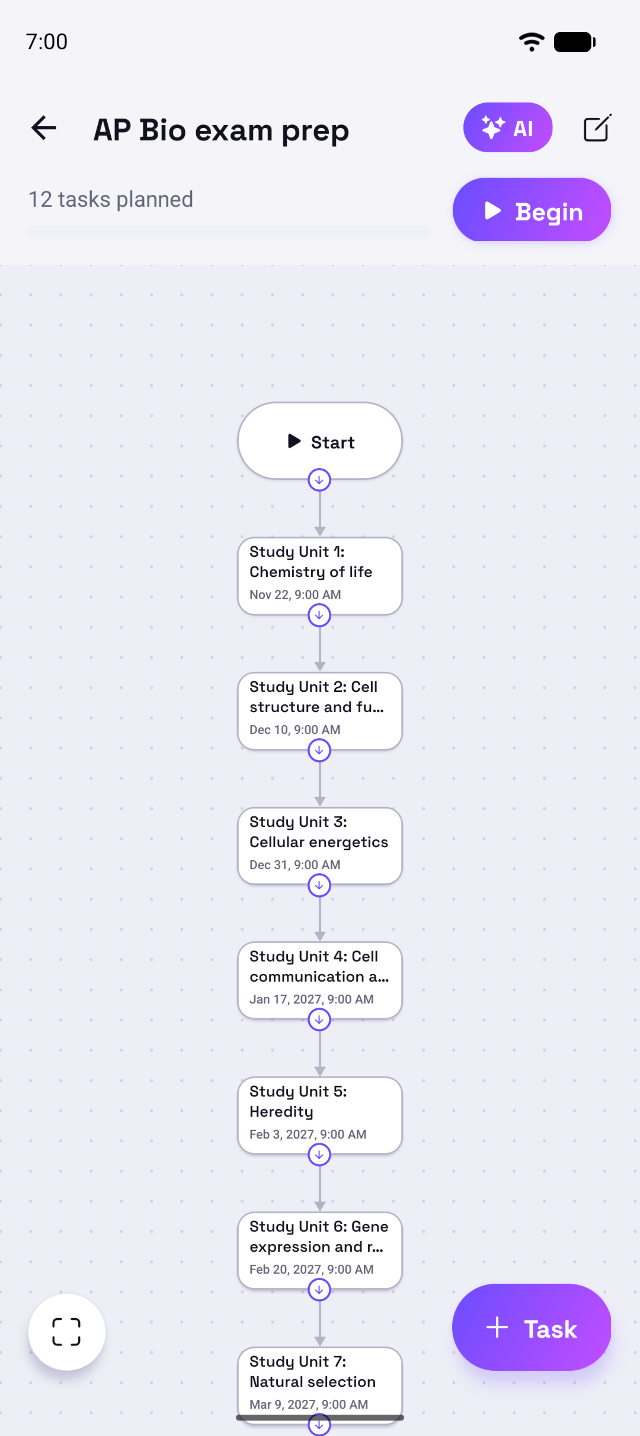
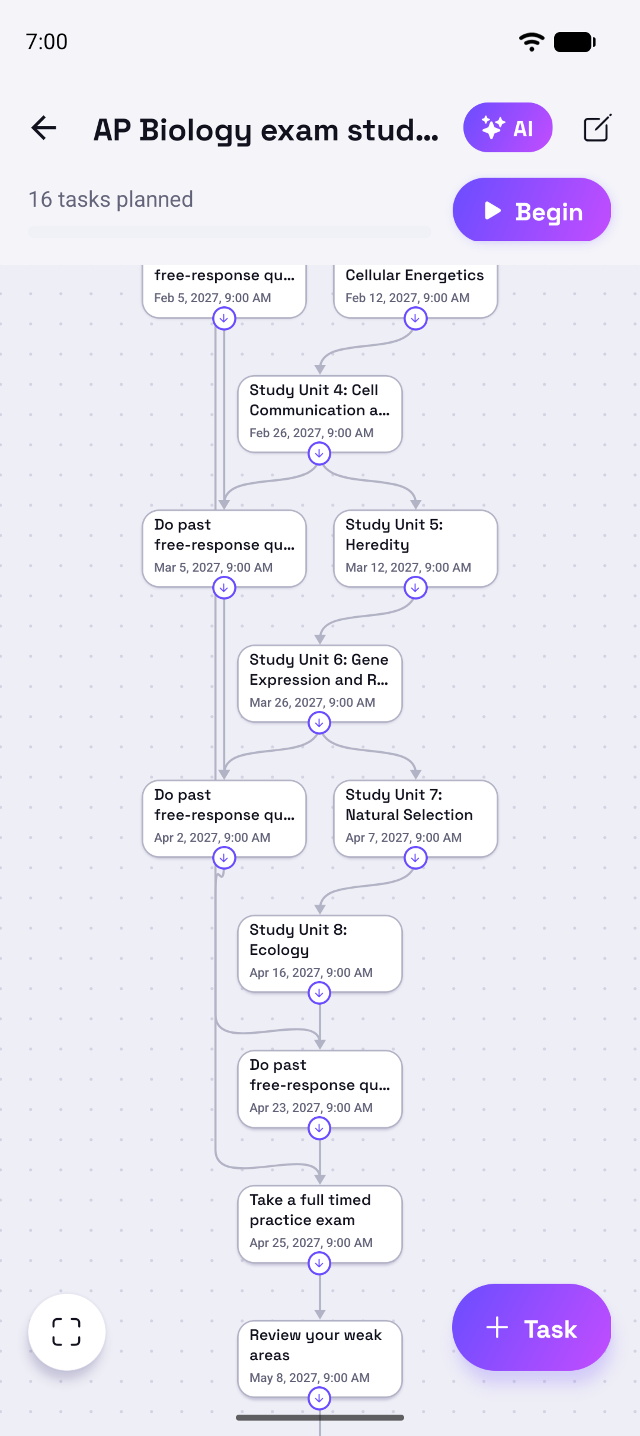
Describe it: AP Bio example with practice running alongside the units

diff --git a/index.html b/index.html
@@ -196,8 +196,8 @@
       <div class="container describe">
         <div class="describe__copy">
           <h2>Just say what you’re planning</h2>
-          <p>Type it, or tap the mic and say it: “AP Bio exam on May 10. Study the 8 units one at a time, then do the past exam questions, take two full practice tests and leave the last week for review. Add links to the past exam questions.”</p>
-          <p>AI drafts the steps, what waits on what, and when each is due: all eight units in order through the winter, practice tests in April, and the College Board’s past exam questions linked right in the task, ready to tap.</p>
+          <p>Type it, or tap the mic and say it: “Create a study plan for the AP Biology exam on May 10, starting January 4, covering the College Board’s course units. Keep doing past free-response questions alongside the units, and review the labs too. Include links to past exam questions and any other useful resources.”</p>
+          <p>AI drafts the steps, what waits on what, and when each is due: the eight units in order through the spring, free-response practice after every two, the labs running alongside, and everything meeting at a timed practice exam two weeks out. The College Board and Khan Academy pages are linked right in the tasks, ready to tap.</p>
           <p>It plans by the hour as well as the day. Try “Christmas dinner for 10, everything ready by 3pm” and every dish gets its own timed steps, from the turkey going in to carving, with handy notes like oven temperatures. Holidays such as Thanksgiving and Mother’s Day land on your country’s date.</p>
           <p>The draft opens on the map, ready to change. Nothing starts until you tap Begin.</p>
           <p class="describe__note">Part of Zayvori Premium, free for 14 days. Your description, today’s date and your phone’s country setting are sent to draft the steps; nothing else leaves your phone. <a href="privacy.html#describe-it">What’s sent</a>.</p>
@@ -205,11 +205,11 @@
         <div class="describe__shots">
           <div class="phone phone--shot phone--small">
             <img src="assets/screens/describe-map.png" width="640" height="1436" loading="lazy"
-              alt="The drafted AP Bio exam prep plan on the map: the eight units one after another, from Chemistry of life in November onward, each with its date." />
+              alt="The drafted AP Biology study plan on the map: units one after another, free-response practice branching off after every two, and both lanes meeting at a timed practice exam on April 25, then a review of weak areas." />
           </div>
           <div class="phone phone--shot phone--small describe__second">
             <img src="assets/screens/describe-note.png" width="640" height="1436" loading="lazy"
-              alt="A task from the draft, Work through the past exam questions, with a tappable link to the College Board’s past AP Biology exam questions in its notes." />
+              alt="The first task, Gather your study resources, with tappable links in its notes to the AP Biology course page, past free-response questions, AP Classroom and Khan Academy." />
           </div>
         </div>
       </div>
